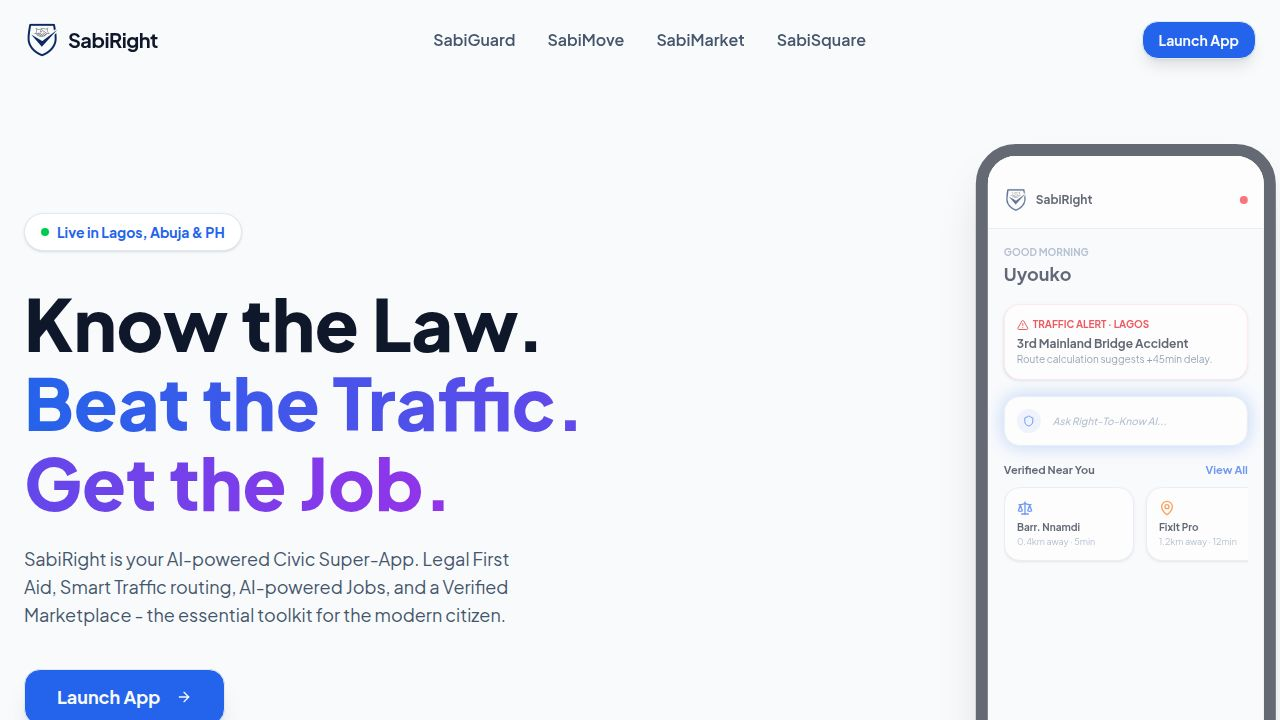
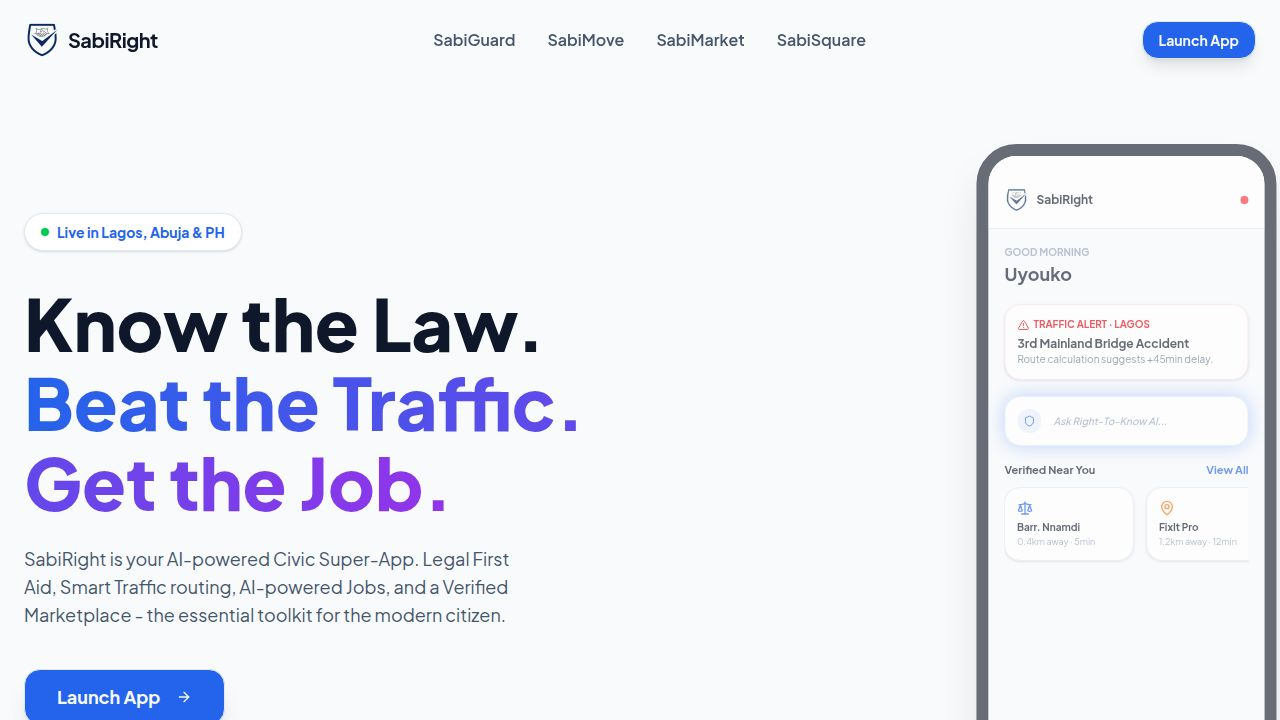
Add secure booking functionality to the marketplace and improve data fetching
Update the Marketplace page to include a booking modal with authentication checks, and ensure that API calls in the BookingDetail page include authorization headers for secure data fetching.

Replit-Commit-Author: Agent
Replit-Commit-Session-Id: 5164c6ee-1e2a-4729-91ba-0cf92a8722cb
Replit-Commit-Checkpoint-Type: full_checkpoint
Replit-Commit-Event-Id: 90175972-c279-437d-a1c9-7fc757edadc2
Replit-Commit-Screenshot-Url: https://storage.googleapis.com/screenshot-production-us-central1/676fe46c-89a2-403b-a68c-b116a8b372ad/5164c6ee-1e2a-4729-91ba-0cf92a8722cb/rCzMEnR
Replit-Helium-Checkpoint-Created: true

diff --git a/client/src/pages/app/Marketplace.tsx b/client/src/pages/app/Marketplace.tsx
@@ -3,10 +3,13 @@ import { Card, CardContent } from "@/components/ui/card";
 import { Badge } from "@/components/ui/badge";
 import { Button } from "@/components/ui/button";
 import { Input } from "@/components/ui/input";
-import { Search, MapPin, Star, Clock, TrendingUp, Phone, Mail, Navigation } from "lucide-react";
+import { Textarea } from "@/components/ui/textarea";
+import { Label } from "@/components/ui/label";
+import { Search, MapPin, Star, Clock, TrendingUp, Phone, Mail, Navigation, Wallet, MessageCircle, Shield } from "lucide-react";
 import { useToast } from "@/hooks/use-toast";
 import { useAuth } from "@/context/AuthContext";
-import { useQuery } from "@tanstack/react-query";
+import { useQuery, useMutation, useQueryClient } from "@tanstack/react-query";
+import { useLocation } from "wouter";
 
 interface ServiceProvider {
   id: string;
@@ -39,12 +42,37 @@ declare global {
 export default function Marketplace() {
   const { user } = useAuth();
   const { toast } = useToast();
+  const [, setLocation] = useLocation();
+  const queryClient = useQueryClient();
   const [searchTerm, setSearchTerm] = useState("");
   const [selectedCategory, setSelectedCategory] = useState("All Services");
   const [sortBy, setSortBy] = useState<"distance" | "time" | "rating">("time");
   const [selectedProvider, setSelectedProvider] = useState<ServiceProvider | null>(null);
   const [userLocation, setUserLocation] = useState<{ lat: number; lng: number } | null>(null);
   const [providersWithDistance, setProvidersWithDistance] = useState<ServiceProvider[]>([]);
+  
+  // Booking modal state
+  const [showBookingModal, setShowBookingModal] = useState(false);
+  const [bookingProvider, setBookingProvider] = useState<ServiceProvider | null>(null);
+  const [bookingDescription, setBookingDescription] = useState("");
+  const [bookingAmount, setBookingAmount] = useState("");
+  const [bookingDate, setBookingDate] = useState("");
+  const [isCreatingBooking, setIsCreatingBooking] = useState(false);
+  
+  // Fetch wallet balance
+  const { data: wallet } = useQuery({
+    queryKey: ['wallet', user?.uid],
+    queryFn: async () => {
+      if (!user) return null;
+      const token = await user.getIdToken();
+      const res = await fetch(`/api/wallet/${user.uid}`, {
+        headers: { Authorization: `Bearer ${token}` }
+      });
+      if (!res.ok) return null;
+      return res.json();
+    },
+    enabled: !!user
+  });
 
   // Get user's current location
   useEffect(() => {
@@ -147,10 +175,104 @@ export default function Marketplace() {
   });
 
   const handleContact = (provider: ServiceProvider) => {
-    toast({
-      title: "Contact Initiated",
-      description: `Connecting you with ${provider.name}...`
-    });
+    if (!user) {
+      toast({ 
+        title: "Login Required", 
+        description: "Please log in to request services from vendors",
+        variant: "destructive"
+      });
+      setLocation("/login");
+      return;
+    }
+    setBookingProvider(provider);
+    setBookingDescription("");
+    setBookingAmount(provider.priceRange?.replace(/[^\d]/g, '') || "5000");
+    setBookingDate("");
+    setShowBookingModal(true);
+  };
+
+  const handleCreateBooking = async () => {
+    if (!user || !bookingProvider) return;
+    
+    const amount = parseFloat(bookingAmount);
+    if (!amount || amount <= 0) {
+      toast({ title: "Invalid amount", description: "Please enter a valid amount", variant: "destructive" });
+      return;
+    }
+    
+    if (!bookingDescription.trim()) {
+      toast({ title: "Description required", description: "Please describe what you need", variant: "destructive" });
+      return;
+    }
+    
+    setIsCreatingBooking(true);
+    try {
+      const token = await user.getIdToken();
+      
+      // Create booking
+      const bookingRes = await fetch('/api/bookings', {
+        method: 'POST',
+        headers: { 
+          'Content-Type': 'application/json',
+          Authorization: `Bearer ${token}`
+        },
+        body: JSON.stringify({
+          serviceId: bookingProvider.id,
+          userId: user.uid,
+          vendorId: bookingProvider.vendorId,
+          totalAmount: amount,
+          description: bookingDescription,
+          scheduledDate: bookingDate || null,
+          milestones: [
+            { title: "Initial Payment", description: "Deposit to start work", amountPercent: 50 },
+            { title: "Final Payment", description: "Upon completion", amountPercent: 50 }
+          ]
+        })
+      });
+      
+      if (!bookingRes.ok) {
+        const error = await bookingRes.json();
+        throw new Error(error.error || 'Failed to create booking');
+      }
+      
+      const booking = await bookingRes.json();
+      
+      // Fund escrow if wallet has balance
+      if (wallet && parseFloat(wallet.balance) >= amount) {
+        try {
+          await fetch(`/api/bookings/${booking.id}/escrow/fund`, {
+            method: 'POST',
+            headers: { 
+              'Content-Type': 'application/json',
+              Authorization: `Bearer ${token}`
+            },
+            body: JSON.stringify({ amount })
+          });
+          toast({ title: "Escrow Funded", description: "Your payment is secured in escrow" });
+        } catch (e) {
+          toast({ title: "Booking Created", description: "Please fund the escrow from the booking page" });
+        }
+      }
+      
+      queryClient.invalidateQueries({ queryKey: ['bookings'] });
+      queryClient.invalidateQueries({ queryKey: ['wallet'] });
+      
+      setShowBookingModal(false);
+      setSelectedProvider(null);
+      
+      toast({ 
+        title: "Booking Created!", 
+        description: `Your booking with ${bookingProvider.name} has been created. You can now chat and track progress.`
+      });
+      
+      // Navigate to booking detail
+      setLocation(`/app/bookings/${booking.id}`);
+      
+    } catch (error: any) {
+      toast({ title: "Error", description: error.message || "Failed to create booking", variant: "destructive" });
+    } finally {
+      setIsCreatingBooking(false);
+    }
   };
 
   return (
@@ -412,9 +534,143 @@ export default function Marketplace() {
                   handleContact(selectedProvider);
                   setSelectedProvider(null);
                 }}
+                data-testid="button-request-service-modal"
               >
                 Request Service from {selectedProvider.name}
               </Button>
+            </CardContent>
+          </Card>
+        </div>
+      )}
+
+      {/* Booking Modal */}
+      {showBookingModal && bookingProvider && (
+        <div className="fixed inset-0 bg-black/50 flex items-center justify-center z-50 p-4">
+          <Card className="w-full max-w-lg bg-white rounded-lg shadow-xl">
+            <CardContent className="p-6">
+              <div className="flex justify-between items-start mb-6">
+                <div>
+                  <h2 className="text-xl font-bold text-slate-900">Book Service</h2>
+                  <p className="text-sm text-slate-500 mt-1">Request service from {bookingProvider.name}</p>
+                </div>
+                <button 
+                  onClick={() => setShowBookingModal(false)}
+                  className="p-2 hover:bg-slate-100 rounded-lg transition-colors"
+                  data-testid="button-close-booking-modal"
+                >
+                  ✕
+                </button>
+              </div>
+
+              {/* Escrow Info Banner */}
+              <div className="bg-green-50 border border-green-200 rounded-lg p-4 mb-6">
+                <div className="flex items-start gap-3">
+                  <Shield className="h-5 w-5 text-green-600 mt-0.5" />
+                  <div>
+                    <p className="font-semibold text-green-800">Secure Escrow Protection</p>
+                    <p className="text-sm text-green-700 mt-1">
+                      Your payment is held securely in escrow until milestones are completed. 
+                      Chat directly with the vendor and request refunds if needed.
+                    </p>
+                  </div>
+                </div>
+              </div>
+
+              {/* Wallet Balance */}
+              <div className="bg-blue-50 border border-blue-200 rounded-lg p-4 mb-6">
+                <div className="flex items-center justify-between">
+                  <div className="flex items-center gap-2">
+                    <Wallet className="h-5 w-5 text-blue-600" />
+                    <span className="font-semibold text-blue-800">Wallet Balance</span>
+                  </div>
+                  <span className="text-lg font-bold text-blue-900">
+                    ₦{parseFloat(wallet?.balance || '0').toLocaleString()}
+                  </span>
+                </div>
+                {parseFloat(wallet?.balance || '0') < parseFloat(bookingAmount || '0') && (
+                  <p className="text-xs text-blue-700 mt-2">
+                    Insufficient balance. <a href="/app/wallet" className="underline font-semibold">Top up wallet</a> to auto-fund escrow.
+                  </p>
+                )}
+              </div>
+
+              <div className="space-y-4">
+                <div>
+                  <Label htmlFor="description">What do you need? *</Label>
+                  <Textarea 
+                    id="description"
+                    placeholder="Describe the service you need in detail..."
+                    value={bookingDescription}
+                    onChange={(e) => setBookingDescription(e.target.value)}
+                    className="mt-1"
+                    rows={3}
+                    data-testid="input-booking-description"
+                  />
+                </div>
+
+                <div className="grid grid-cols-2 gap-4">
+                  <div>
+                    <Label htmlFor="amount">Total Amount (₦) *</Label>
+                    <Input 
+                      id="amount"
+                      type="number"
+                      placeholder="e.g. 50000"
+                      value={bookingAmount}
+                      onChange={(e) => setBookingAmount(e.target.value)}
+                      className="mt-1"
+                      data-testid="input-booking-amount"
+                    />
+                  </div>
+                  <div>
+                    <Label htmlFor="date">Preferred Date</Label>
+                    <Input 
+                      id="date"
+                      type="date"
+                      value={bookingDate}
+                      onChange={(e) => setBookingDate(e.target.value)}
+                      className="mt-1"
+                      data-testid="input-booking-date"
+                    />
+                  </div>
+                </div>
+
+                <div className="bg-slate-50 rounded-lg p-4">
+                  <p className="text-sm font-semibold text-slate-700 mb-2">What happens next?</p>
+                  <div className="space-y-2 text-sm text-slate-600">
+                    <div className="flex items-center gap-2">
+                      <MessageCircle className="h-4 w-4 text-primary" />
+                      <span>Chat with the vendor to discuss details</span>
+                    </div>
+                    <div className="flex items-center gap-2">
+                      <Wallet className="h-4 w-4 text-green-600" />
+                      <span>Fund escrow to secure your booking</span>
+                    </div>
+                    <div className="flex items-center gap-2">
+                      <Shield className="h-4 w-4 text-blue-600" />
+                      <span>Milestones released as work completes</span>
+                    </div>
+                  </div>
+                </div>
+              </div>
+
+              <div className="flex gap-3 mt-6">
+                <Button 
+                  variant="outline" 
+                  className="flex-1"
+                  onClick={() => setShowBookingModal(false)}
+                  data-testid="button-cancel-booking"
+                >
+                  Cancel
+                </Button>
+                <Button 
+                  className="flex-1 bg-primary hover:bg-primary/90 text-white font-bold"
+                  onClick={handleCreateBooking}
+                  disabled={isCreatingBooking || !bookingDescription.trim() || !bookingAmount}
+                  data-testid="button-create-booking"
+                >
+                  {isCreatingBooking ? "Creating..." : "Create Booking"}
+                </Button>
+              </div>
             </CardContent>
           </Card>
         </div>

diff --git a/client/src/pages/app/BookingDetail.tsx b/client/src/pages/app/BookingDetail.tsx
@@ -137,8 +137,11 @@ export default function BookingDetail() {
   const { data, isLoading, error } = useQuery<BookingData>({
     queryKey: ["booking-detail", bookingId],
     queryFn: async () => {
-      if (!bookingId) throw new Error("No booking ID");
-      const res = await fetch(`/api/bookings/${bookingId}`);
+      if (!bookingId || !user) throw new Error("No booking ID");
+      const token = await user.getIdToken();
+      const res = await fetch(`/api/bookings/${bookingId}`, {
+        headers: { Authorization: `Bearer ${token}` }
+      });
       if (!res.ok) throw new Error("Failed to fetch booking");
       return res.json();
     },
@@ -148,8 +151,11 @@ export default function BookingDetail() {
   const { data: messages = [], refetch: refetchMessages } = useQuery<Message[]>({
     queryKey: ["booking-messages", bookingId],
     queryFn: async () => {
-      if (!bookingId) return [];
-      const res = await fetch(`/api/bookings/${bookingId}/messages`);
+      if (!bookingId || !user) return [];
+      const token = await user.getIdToken();
+      const res = await fetch(`/api/bookings/${bookingId}/messages`, {
+        headers: { Authorization: `Bearer ${token}` }
+      });
       if (!res.ok) return [];
       return res.json();
     },